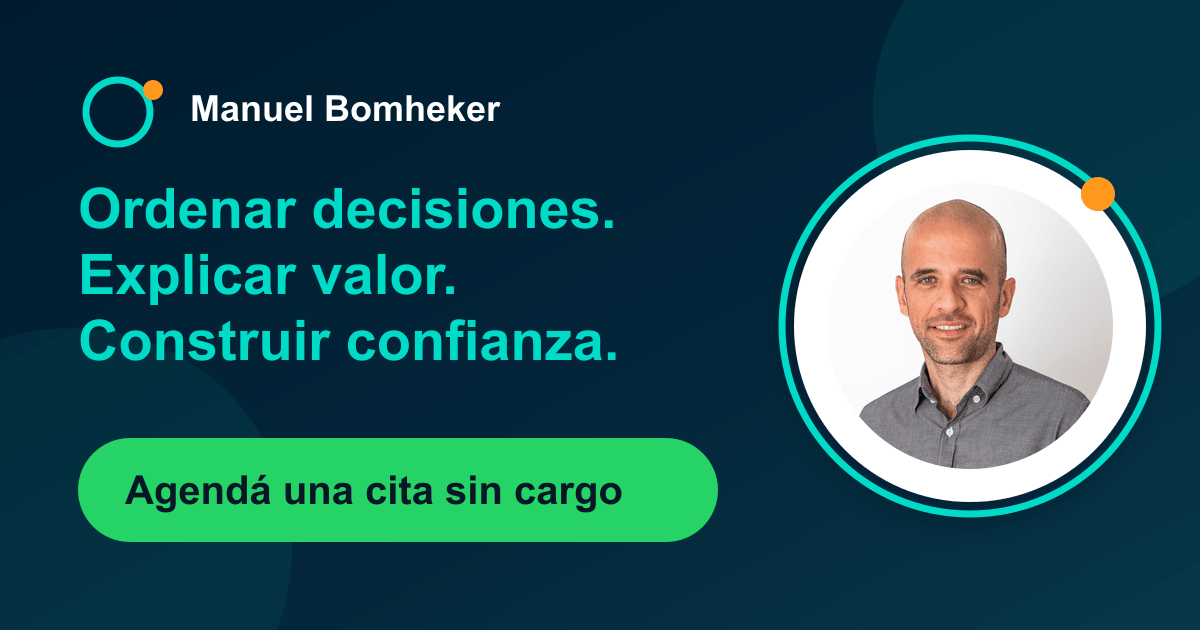
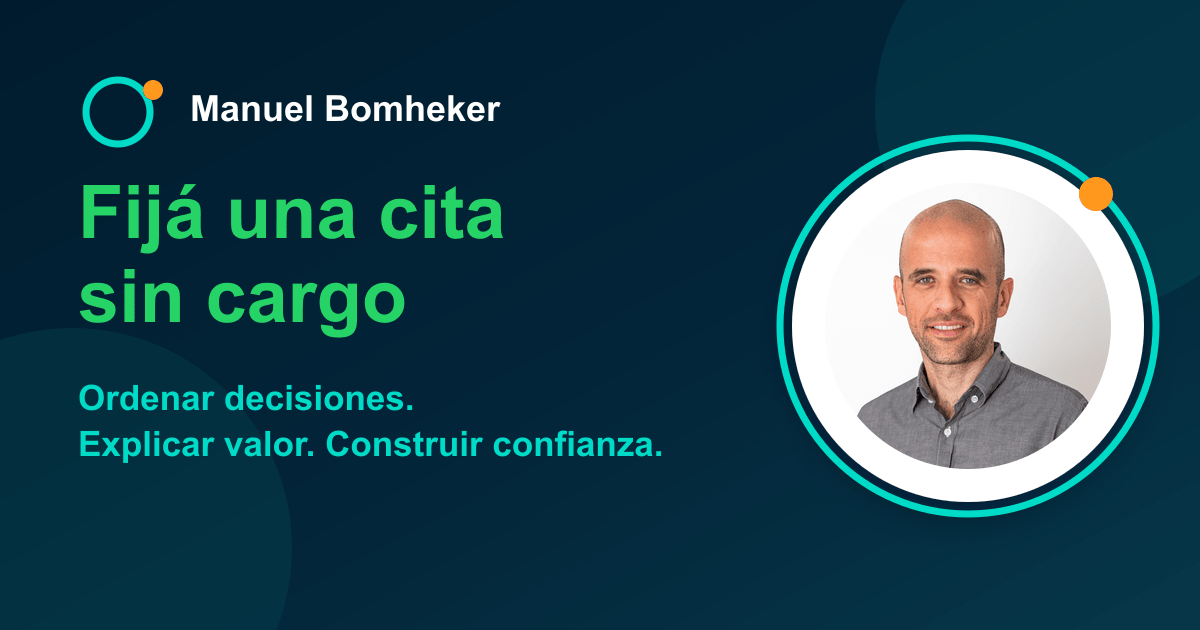
Destacar CTA en placa social

diff --git a/index.html b/index.html
@@ -13,7 +13,7 @@
   <meta property="og:type" content="website">
   <meta property="og:locale" content="es_AR">
   <meta property="og:title" content="Manuel Bomheker | Comunicación estratégica para universidades y ciencia">
-  <meta property="og:description" content="Diagnóstico, estrategia e implementación para instituciones académicas, científicas y de innovación.">
+  <meta property="og:description" content="Fijá una cita sin cargo para ordenar decisiones, explicar valor y construir confianza institucional.">
   <meta property="og:url" content="https://manuelbomheker.com/">
   <meta property="og:image" content="https://manuelbomheker.com/assets/manuel-bomheker-social.png">
   <meta property="og:image:secure_url" content="https://manuelbomheker.com/assets/manuel-bomheker-social.png">
@@ -23,7 +23,7 @@
   <meta property="og:image:alt" content="Manuel Bomheker - Comunicación estratégica para universidades y ciencia">
   <meta name="twitter:card" content="summary_large_image">
   <meta name="twitter:title" content="Manuel Bomheker | Comunicación estratégica para universidades y ciencia">
-  <meta name="twitter:description" content="Estrategia, diagnóstico e implementación para instituciones académicas, científicas y de innovación.">
+  <meta name="twitter:description" content="Fijá una cita sin cargo para ordenar decisiones, explicar valor y construir confianza institucional.">
   <meta name="twitter:image" content="https://manuelbomheker.com/assets/manuel-bomheker-social.png">
   <meta name="twitter:image:alt" content="Manuel Bomheker - Comunicación estratégica para universidades y ciencia">
   <style>
